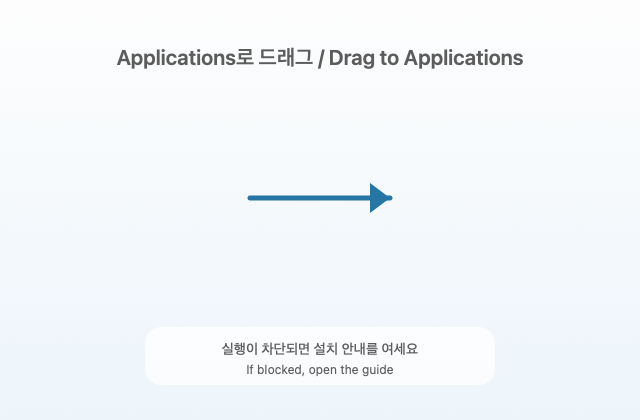
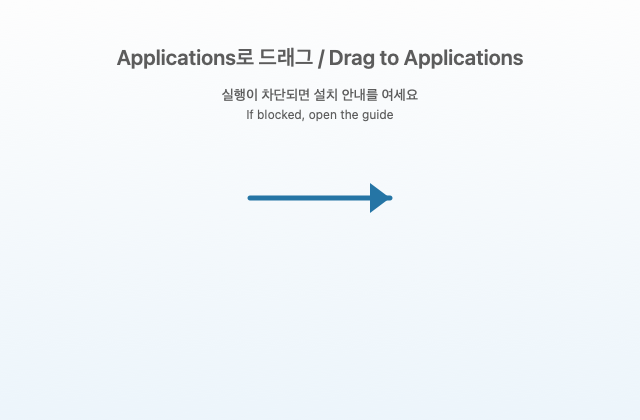
fix(release): prevent DMG guide overlap
Prevent the Finder guide item from overlapping bilingual background instructions. Validate the 640×420 window size independently from Finder screen-origin changes and cover both cases with release packaging regressions.

Changed region(s): [[0.3438, 0.8048, 0.6562, 0.8976], [0.3438, 0.1857, 0.6562, 0.3095]]

diff --git a/Tests/ReleasePackagingTests/verify-background-safe-zone.swift b/Tests/ReleasePackagingTests/verify-background-safe-zone.swift
@@ -1,0 +1,58 @@
+import AppKit
+import Foundation
+
+guard CommandLine.arguments.count == 2 else {
+    FileHandle.standardError.write(
+        Data("Usage: verify-background-safe-zone.swift <background.png>\n".utf8)
+    )
+    exit(64)
+}
+
+let backgroundPath = CommandLine.arguments[1]
+guard let backgroundData = try? Data(contentsOf: URL(fileURLWithPath: backgroundPath)),
+      let bitmap = NSBitmapImageRep(data: backgroundData),
+      let baseline = NSBitmapImageRep(
+          bitmapDataPlanes: nil,
+          pixelsWide: 640,
+          pixelsHigh: 420,
+          bitsPerSample: 8,
+          samplesPerPixel: 4,
+          hasAlpha: true,
+          isPlanar: false,
+          colorSpaceName: .deviceRGB,
+          bytesPerRow: 0,
+          bitsPerPixel: 0
+      ) else {
+    FileHandle.standardError.write(Data("Unable to read background PNG\n".utf8))
+    exit(1)
+}
+
+let context = NSGraphicsContext(bitmapImageRep: baseline)
+NSGraphicsContext.saveGraphicsState()
+NSGraphicsContext.current = context
+let canvas = NSRect(x: 0, y: 0, width: 640, height: 420)
+let gradient = NSGradient(
+    starting: NSColor(calibratedWhite: 0.99, alpha: 1),
+    ending: NSColor(calibratedRed: 0.91, green: 0.95, blue: 0.98, alpha: 1)
+)
+gradient?.draw(in: canvas, angle: -90)
+NSGraphicsContext.restoreGraphicsState()
+
+guard let baselineData = baseline.representation(using: .png, properties: [:]),
+      let encodedBaseline = NSBitmapImageRep(data: baselineData) else {
+    FileHandle.standardError.write(Data("Unable to generate background baseline\n".utf8))
+    exit(1)
+}
+
+let guideSafeZone = NSRect(x: 160, y: 245, width: 320, height: 165)
+
+for y in Int(guideSafeZone.minY)..<Int(guideSafeZone.maxY) {
+    for x in Int(guideSafeZone.minX)..<Int(guideSafeZone.maxX) {
+        guard bitmap.colorAt(x: x, y: y) == encodedBaseline.colorAt(x: x, y: y) else {
+            FileHandle.standardError.write(
+                Data("DMG guide safe zone contains background decoration at \(x),\(y)\n".utf8)
+            )
+            exit(1)
+        }
+    }
+}

diff --git a/Scripts/generate-dmg-background.swift b/Scripts/generate-dmg-background.swift
@@ -38,7 +38,6 @@ gradient?.draw(in: canvas, angle: -90)
 
 let accent = NSColor(calibratedRed: 0.12, green: 0.38, blue: 0.58, alpha: 1)
 let muted = NSColor(calibratedWhite: 0.29, alpha: 1)
-let guideBackground = NSColor(calibratedWhite: 1, alpha: 0.72)
 
 func drawCentered(_ text: String, y: CGFloat, font: NSFont, color: NSColor) {
     let attributes: [NSAttributedString.Key: Any] = [
@@ -54,6 +53,18 @@ drawCentered(
     "Applications로 드래그 / Drag to Applications",
     y: 350,
     font: .systemFont(ofSize: 21, weight: .semibold),
+    color: muted
+)
+drawCentered(
+    "실행이 차단되면 설치 안내를 여세요",
+    y: 317,
+    font: .systemFont(ofSize: 14, weight: .medium),
+    color: muted
+)
+drawCentered(
+    "If blocked, open the guide",
+    y: 298,
+    font: .systemFont(ofSize: 12, weight: .regular),
     color: muted
 )
 
@@ -72,27 +83,6 @@ arrowHead.line(to: NSPoint(x: 370, y: 237))
 arrowHead.line(to: NSPoint(x: 370, y: 207))
 arrowHead.close()
 arrowHead.fill()
-
-let guidePanel = NSBezierPath(
-    roundedRect: NSRect(x: 145, y: 35, width: 350, height: 58),
-    xRadius: 16,
-    yRadius: 16
-)
-guideBackground.setFill()
-guidePanel.fill()
-
-drawCentered(
-    "실행이 차단되면 설치 안내를 여세요",
-    y: 63,
-    font: .systemFont(ofSize: 14, weight: .medium),
-    color: muted
-)
-drawCentered(
-    "If blocked, open the guide",
-    y: 43,
-    font: .systemFont(ofSize: 12, weight: .regular),
-    color: muted
-)
 
 NSGraphicsContext.restoreGraphicsState()
 
